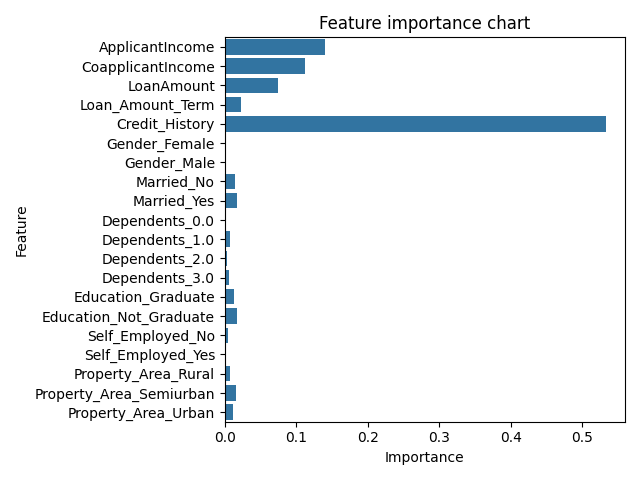
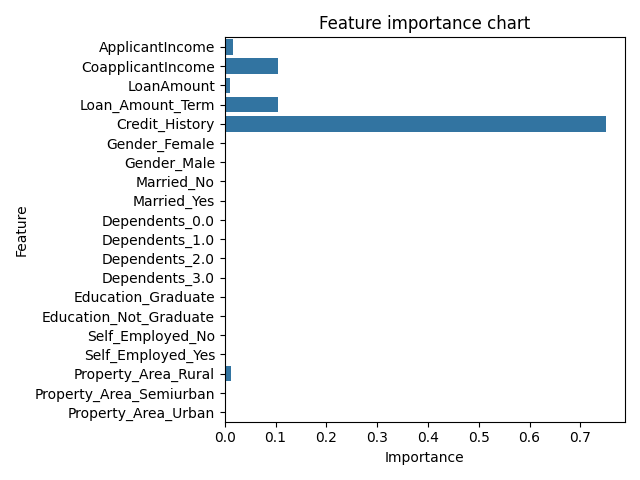
push recent code changes
general improvement on the app

diff --git a/streamlit_UI.py b/streamlit_UI.py
@@ -12,14 +12,16 @@ from sklearn.model_selection import train_test_split
 # Set Streamlit page config
 st.set_page_config(page_title="Credit Loan Predictor", layout="centered")
 
-# Title and Description
-st.title("💳 Credit Loan Eligibility Predictor")
+st.title("Welcome to the Loan Eligibility Explorer")
 st.write("""
-This app predicts whether a loan applicant is eligible for a loan 
-based on various personal and financial characteristics.
+This interactive app uses a Random Forest model to help you explore loan eligibility predictions. 
+You can adjust model parameters to see how they affect the outcome.
+""")
+st.write("""
+Built for learners, data enthusiasts, and aspiring data scientists.
 """)
 
-st.caption("📌 Click the '>>' icon at the top-left to configure model settings.")
+st.caption("📌 Expand the '>>' icon at the top-left to configure model settings.")
 
 # Load dataset and preprocess
 data_path = "data/raw/credit.csv"
@@ -27,10 +29,16 @@ df = load_and_preprocess_data(data_path)
 X, y = create_dummy_vars(df)
 
 # Sidebar: Model Configuration
-st.sidebar.header("🔧 Random Forest Configuration")
-n_estimators = st.sidebar.number_input("Number of Trees", min_value=1, max_value=100, value=10)
-max_depth = st.sidebar.number_input("Maximum Depth", min_value=1, max_value=20, value=5)
-max_features = st.sidebar.number_input("Max Features", min_value=1, max_value=X.shape[1], value=8)
+st.sidebar.header("Model Parameter Section")
+n_estimators = st.sidebar.number_input(
+    "Number of Trees", min_value=1, max_value=100, value=5,
+    help="Controls the number of trees in the forest. More trees = better performance (usually).")
+max_depth = st.sidebar.number_input(
+    "Maximum Depth", min_value=1, max_value=20, value=2,
+    help="Limits how deep each tree can grow to avoid overfitting.")
+max_features = st.sidebar.number_input(
+    "Max Features", min_value=1, max_value=X.shape[1], value=7,
+    help="Number of features considered at each split. Helps control overfitting")
 
 # Train model using configured parameters
 model, _, _ = train_RFmodel(X, y, n_estimators=n_estimators, max_depth=max_depth, max_features=max_features)
@@ -55,12 +63,12 @@ with st.form("user_inputs"):
     with col2:
         ApplicantIncome = st.number_input("Applicant Monthly Income", min_value=0, step=1000)
         CoapplicantIncome = st.number_input("Coapplicant Monthly Income", min_value=0, step=1000)
-        LoanAmount = st.number_input("Loan Amount", min_value=0, step=1000)
+        LoanAmount = st.number_input("Loan Amount", min_value=1000, step=1000)
         Loan_Amount_Term = st.selectbox("Loan Term (Months)", ["360", "180", "240", "120", "60"])
         Credit_History = st.selectbox("Credit History", ["1", "0"])
         Property_Area = st.selectbox("Property Area", ["Urban", "Semiurban", "Rural"])
 
-    submitted = st.form_submit_button("🚀 Predict Loan Eligibility")
+    submitted = st.form_submit_button("Predict Loan Eligibility")
 
 # Handle dummy variable conversion and prediction
 if submitted:
@@ -92,18 +100,21 @@ if submitted:
 
     new_prediction = model.predict(prediction_input)
 
-    st.subheader("🔍 Prediction Result")
+    st.subheader("Prediction Result")
     if new_prediction[0] == 'Y':
         st.success("✅ You are eligible for the loan!")
     else:
         st.error("❌ Sorry, you are not eligible for the loan.")
+    st.caption(f"Model Accuracy: **{accuracy * 100:.2f}%**")
 
 # Optional: Feature Importance image
 st.markdown("---")
-st.info("We used a Random Forest model to predict eligibility. Below is the feature importance chart.")
-st.caption(f"Model used: Random Forest (n_estimators={n_estimators}, max_depth={max_depth}, max_features={max_features})")
-st.caption(f"Model Accuracy on Test Set: **{accuracy * 100:.2f}%**")
+st.subheader("What Influences Eligibility and How Our Model Picks It Up")
+st.info(f"Your customized RF model used: **n_estimators={n_estimators}, max_depth={max_depth}, max_features={max_features}**")
+st.caption(f"Note: GridSearchCV was initially used offline to identify the best parameters. These have been set as the default values. You can now adjust them manually to test other configurations.")
+st.caption(f"The best parameters were n_estimators = 5, max_depth = 2, and max_features = 7 with model accuracy of **78.86%**")
 st.image("feature_importance.png", use_container_width=True)
+st.caption(f"Note: This app is a classroom project designed to show how machine learning models work. You can test different parameter settings and observe how the model’s behavior changes. It’s a great way to understand real-world deployment concepts.")
 
 # Footer
 st.markdown("---")

diff --git a/main-1.py b/main-1.py
@@ -1,7 +1,7 @@
 from setuptools import find_packages, setup
 
-
-#setup(
+# Commented out: used for packaging
+# setup(
 #     name='src',
 #     packages=find_packages(),
 #     version='0.1.0',
@@ -13,22 +13,28 @@ from setuptools import find_packages, setup
 from src.data.make_dataset import load_and_preprocess_data
 from src.visualization.visualize import plot_correlation_heatmap, plot_feature_importance, plot_confusion_matrix
 from src.features.build_features import create_dummy_vars
-from src.models.train_model import train_RFmodel
+from src.models.train_model_GridSCV import train_RFmodel
 from src.models.predict_model import evaluate_model
 
 if __name__ == "__main__":
-    # Load and preprocess the data
+    # Step 1: Load and preprocess the data
     data_path = "data/raw/credit.csv"
     df = load_and_preprocess_data(data_path)
 
-    # Create dummy variables and separate features and target
+    # Step 2: Create dummy variables and separate features and target
     X, y = create_dummy_vars(df)
 
-    # Train the logistic regression model
+    # Step 3: Train model with hyperparameter tuning
     model, X_test_scaled, y_test = train_RFmodel(X, y)
 
-    # Evaluate the model
+    # Step 4: Evaluate the model
     plot_feature_importance(model, X)
     accuracy, confusion_mat = evaluate_model(model, X_test_scaled, y_test)
-    print(f"Accuracy: {accuracy}")
+
+    print(f"\nModel Accuracy: {accuracy:.2f}")
     print(f"Confusion Matrix:\n{confusion_mat}")
+
+    # Step 5: Optionally show tuned parameters (if saved)
+    if hasattr(model, 'get_params'):
+        print("\nBest Parameters Used:")
+        print(model.get_params())

diff --git a/src/models/train_model_GridSCV.py b/src/models/train_model_GridSCV.py
@@ -1,0 +1,28 @@
+# src/models/train_model.py
+
+from sklearn.preprocessing import MinMaxScaler
+from sklearn.model_selection import train_test_split
+import pickle
+from src.models.tune_model_GridSCV import tune_random_forest
+
+# Function to train the model using hyperparameter tuning
+def train_RFmodel(X, y):
+    # Split the data
+    X_train, X_test, y_train, y_test = train_test_split(X, y, test_size=0.2, random_state=123)
+
+    # Scale features
+    scaler = MinMaxScaler()
+    X_train_scaled = scaler.fit_transform(X_train)
+    X_test_scaled = scaler.transform(X_test)
+
+    # Tune and train the model
+    model, best_params = tune_random_forest(X_train_scaled, y_train)
+
+    # Save model and best params
+    with open('models/RFmodel_GridSCV.pkl', 'wb') as f:
+        pickle.dump(model, f)
+    
+    with open('models/best_params.pkl', 'wb') as f:
+        pickle.dump(best_params, f)
+
+    return model, X_test_scaled, y_test

diff --git a/src/models/tune_model_GridSCV.py b/src/models/tune_model_GridSCV.py
@@ -1,0 +1,29 @@
+from sklearn.ensemble import RandomForestClassifier
+from sklearn.model_selection import GridSearchCV
+
+def tune_random_forest(X_train, y_train):
+    # Define parameter grid
+    param_grid = {
+        'n_estimators': [1,2,3,4,5,6,7,8,9,10,11,12,13,14,15,16,17,18,19,20],
+        'max_depth': [None,1,2,3,4,5,6,7,8,9,10,11,12,13,14,15,16,17,18,19,20],
+        'max_features': [1,2,3,4,5,6,7,8,9,10,11,12,13,14,15,16,17,18,19,20]
+    }
+
+    # Initialize base model
+    rf = RandomForestClassifier(random_state=42)
+
+    # Create GridSearchCV object
+    grid_search = GridSearchCV(
+        estimator=rf,
+        param_grid=param_grid,
+        scoring='accuracy',
+        cv=5,
+        n_jobs=-1,
+        verbose=1
+    )
+
+    # Fit the model
+    grid_search.fit(X_train, y_train)
+
+    # Return best model and params
+    return grid_search.best_estimator_, grid_search.best_params_
